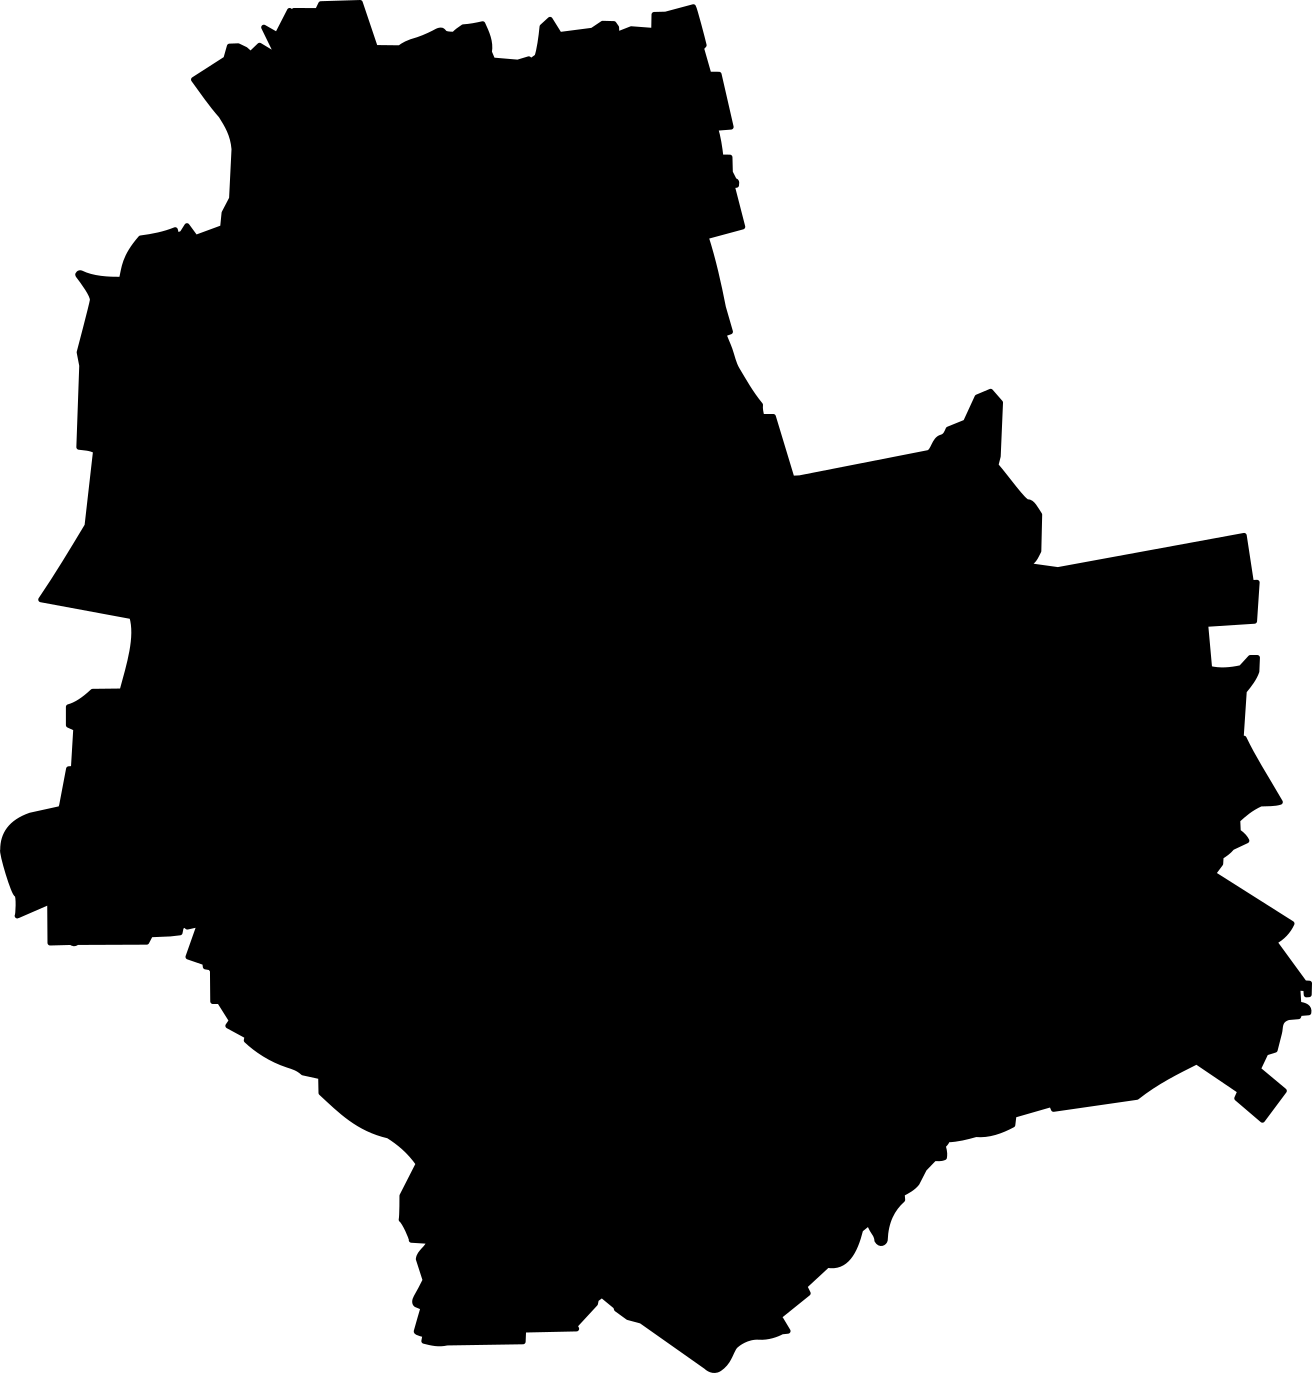
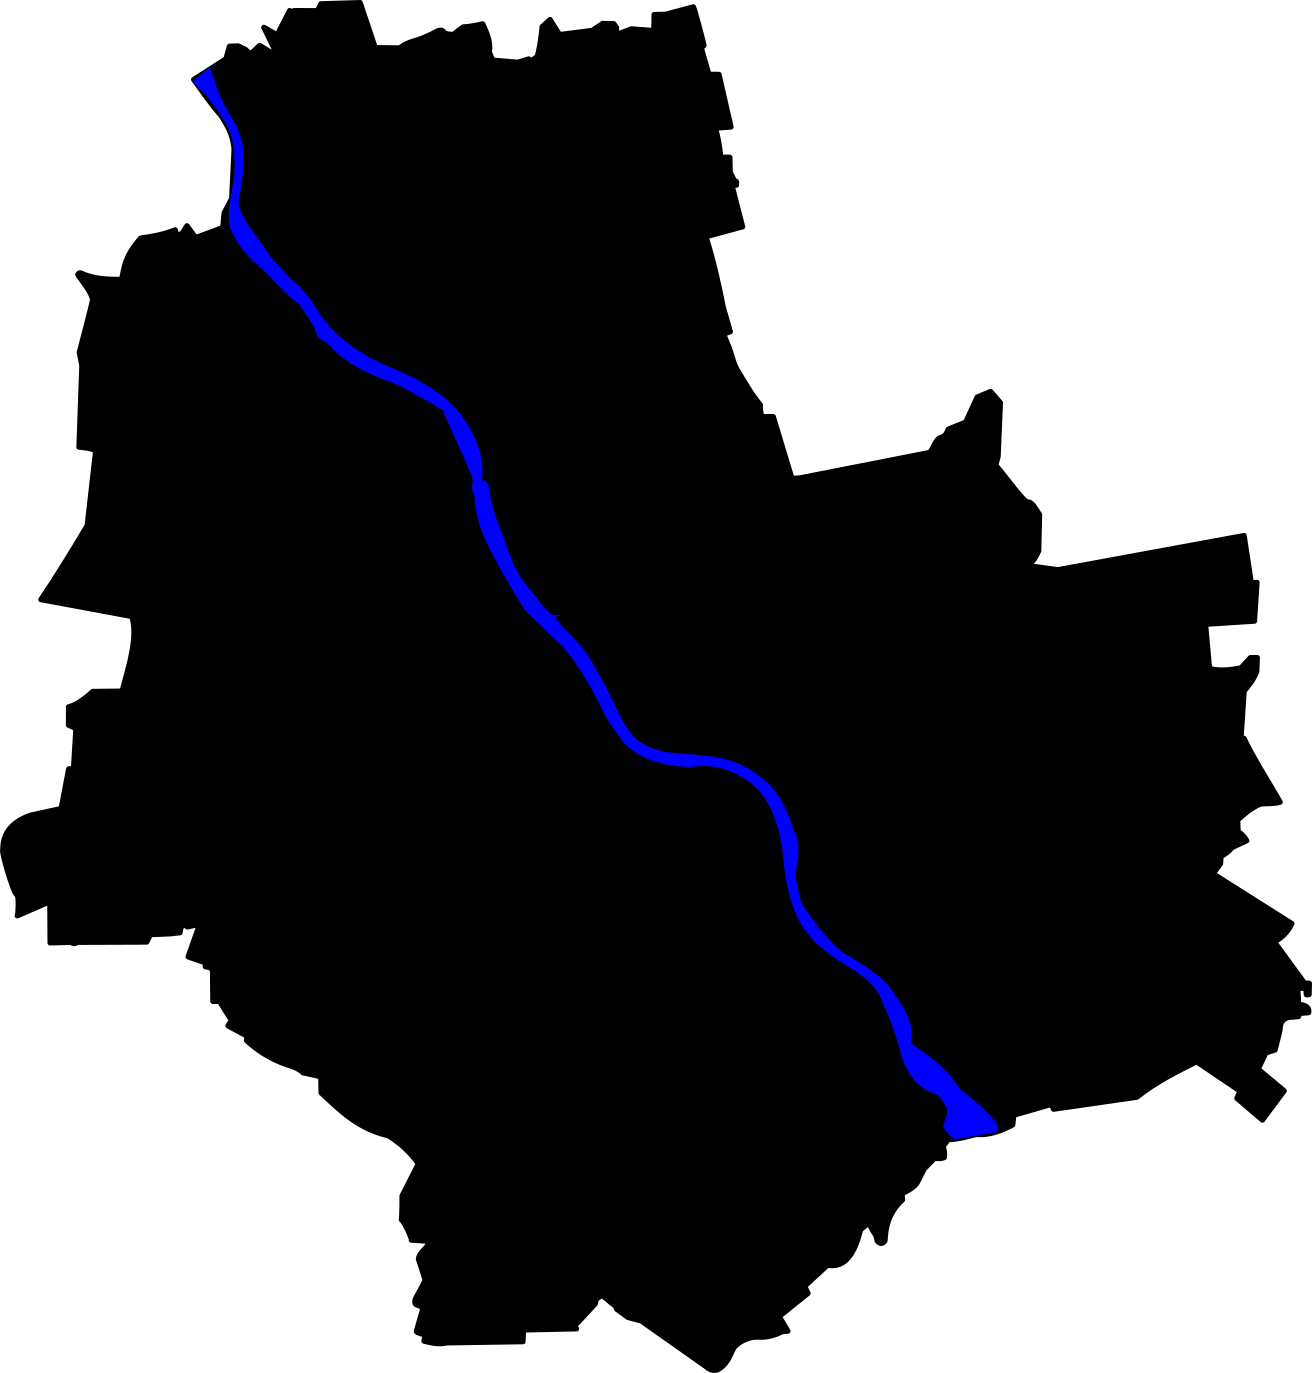
Create walking routes from voronoi diagram

diff --git a/src/map.ts b/src/map.ts
@@ -32,8 +32,9 @@ export class ShapeMap {
         this.tooltip = document.getElementById("tooltip") as HTMLDivElement;
         this.tooltipVisible = false;
 
-        //this.initVoronoiRoutes();
+        this.initVoronoiRoutes();
         this.initMap(shape);
+        this.repaint(17, "week", this.shape.center);
     }
 
     private createVoronoiDiagram(): VoronoiDiagram {
@@ -48,19 +49,23 @@ export class ShapeMap {
             // check if points are on different sides of the Vistula
             const first: Point = edge.lSite as Point;
             const second: Point = edge.rSite as Point;
-            if(!first || !second) {
+            if(!first || !second || this.riverSide(first.x, first.y) !== this.riverSide(second.x, second.y)) {
                 continue;
             }
             const dist: number = distance(first.lat, first.lon, second.lat, second.lon);
-            const time: number = Math.ceil(dist * 12);
-            console.log(time);
+            const time: number = Math.ceil(dist * 10);
             first.routes[second.code] = time;
             second.routes[first.code] = time;
         }
     }
 
+    private riverSide(x: number, y: number): number {
+        const point: number = this.shape.river[y];
+        return x > point ? 1 : -1;
+    }
+
     private createMapGradient(): MapGradient {
-        let res: any = {start: [244, 234, 198], end: [136, 0, 21], steps: 121};
+        let res: any = {start: [153, 217, 234], end: [237, 28, 36], steps: 121};
         res.lookup = this.createGradientLookup(res.start, res.end, res.steps);
         res.hexLookup = res.lookup.map((color: number[]) => this.rgbToHex(color));
         return res as MapGradient;
@@ -110,7 +115,7 @@ export class ShapeMap {
         this.layer = L.tileLayer("http://{s}.tiles.wmflabs.org/bw-mapnik/{z}/{x}/{y}.png", {attribution, maxZoom: 18,});
         this.layer.addTo(this.map);
 
-        this.overlay = L.imageOverlay(this.draw(), shape.box, {opacity: 0.5, interactive: true});
+        this.overlay = L.imageOverlay(this.draw(), shape.box, {opacity: 0.6, interactive: true});
         this.overlay.addTo(this.map);
         this.overlay.on("click", (event: any) => this.onClick(event));
         this.overlay.on("mousemove", (event: any) => this.onHover(event));

diff --git a/src/dijkstra.ts b/src/dijkstra.ts
@@ -105,7 +105,7 @@ export class DijkstraAlgorithm {
                 nearest.code = key;
             }
         }
-        nearest.cost = this.start + Math.floor(12 * min);
+        nearest.cost = this.start + Math.floor(10 * min);
         return nearest;
     }
 

diff --git a/src/types.d.ts b/src/types.d.ts
@@ -6,6 +6,7 @@ interface ShapeData {
     hborder?: number[][];
     vborder?: number[][];
     size?: [number, number];
+    river?: number[];
 }
 
 interface MapGradient {

diff --git a/scripts/shape_data.py b/scripts/shape_data.py
@@ -1,3 +1,4 @@
+from math import floor
 from typing import Callable
 from PIL import Image
 import json
@@ -9,8 +10,18 @@ def process_image(input_path: str, output_path: str):
     height = img.size[1]
     width = img.size[0]
 
-    vborder = [process_line(lambda idx: pix[i, idx], height) for i in range(width)]
-    hborder = [process_line(lambda idx: pix[idx, j], width) for j in range(height)]
+    visible_predicate = lambda color: color[3] > 0
+    vborder = [process_line(lambda idx: pix[i, idx], visible_predicate, height) for i in range(width)]
+    hborder = [process_line(lambda idx: pix[idx, j], visible_predicate, width) for j in range(height)]
+
+    blue_predicate = lambda color: color[2] == 255
+    rborder = [process_line(lambda idx: pix[idx, j], blue_predicate, width) for j in range(height)]
+    river = [floor((bmin + bmax) / 2) for bmin, bmax in rborder]
+
+    first_val = next((idx, river[idx]) for idx in range(len(river)) if river[idx] > 0)
+    last_val = next((len(river) - 1 - idx, river[-idx]) for idx in range(len(river)) if river[-idx] > 0)
+    river[:first_val[0]] = [first_val[1]] * first_val[0]
+    river[last_val[0]:] = [last_val[1]] * (len(river) - last_val[0])
 
     res = dict()
     res["center"] = [52.237049, 21.017532]
@@ -18,21 +29,22 @@ def process_image(input_path: str, output_path: str):
     res["hborder"] = hborder
     res["vborder"] = vborder
     res["size"] = [width, height]
+    res["river"] = river
     with open(output_path, "w") as output_file:
         json.dump(res, output_file, sort_keys=True)
 
 
-def process_line(getter: Callable, size):
+def process_line(getter: Callable, color_predicate: Callable, size):
     border_min = 0
     border_max = 0
     for i in range(size):
         color = getter(i)
-        if color[3] > 0:
+        if color_predicate(color):
             border_min = i
             break
     for i in range(size - 1, 0, -1):
         color = getter(i)
-        if color[3] > 0:
+        if color_predicate(color):
             border_max = i
             break
     return [border_min, border_max]
